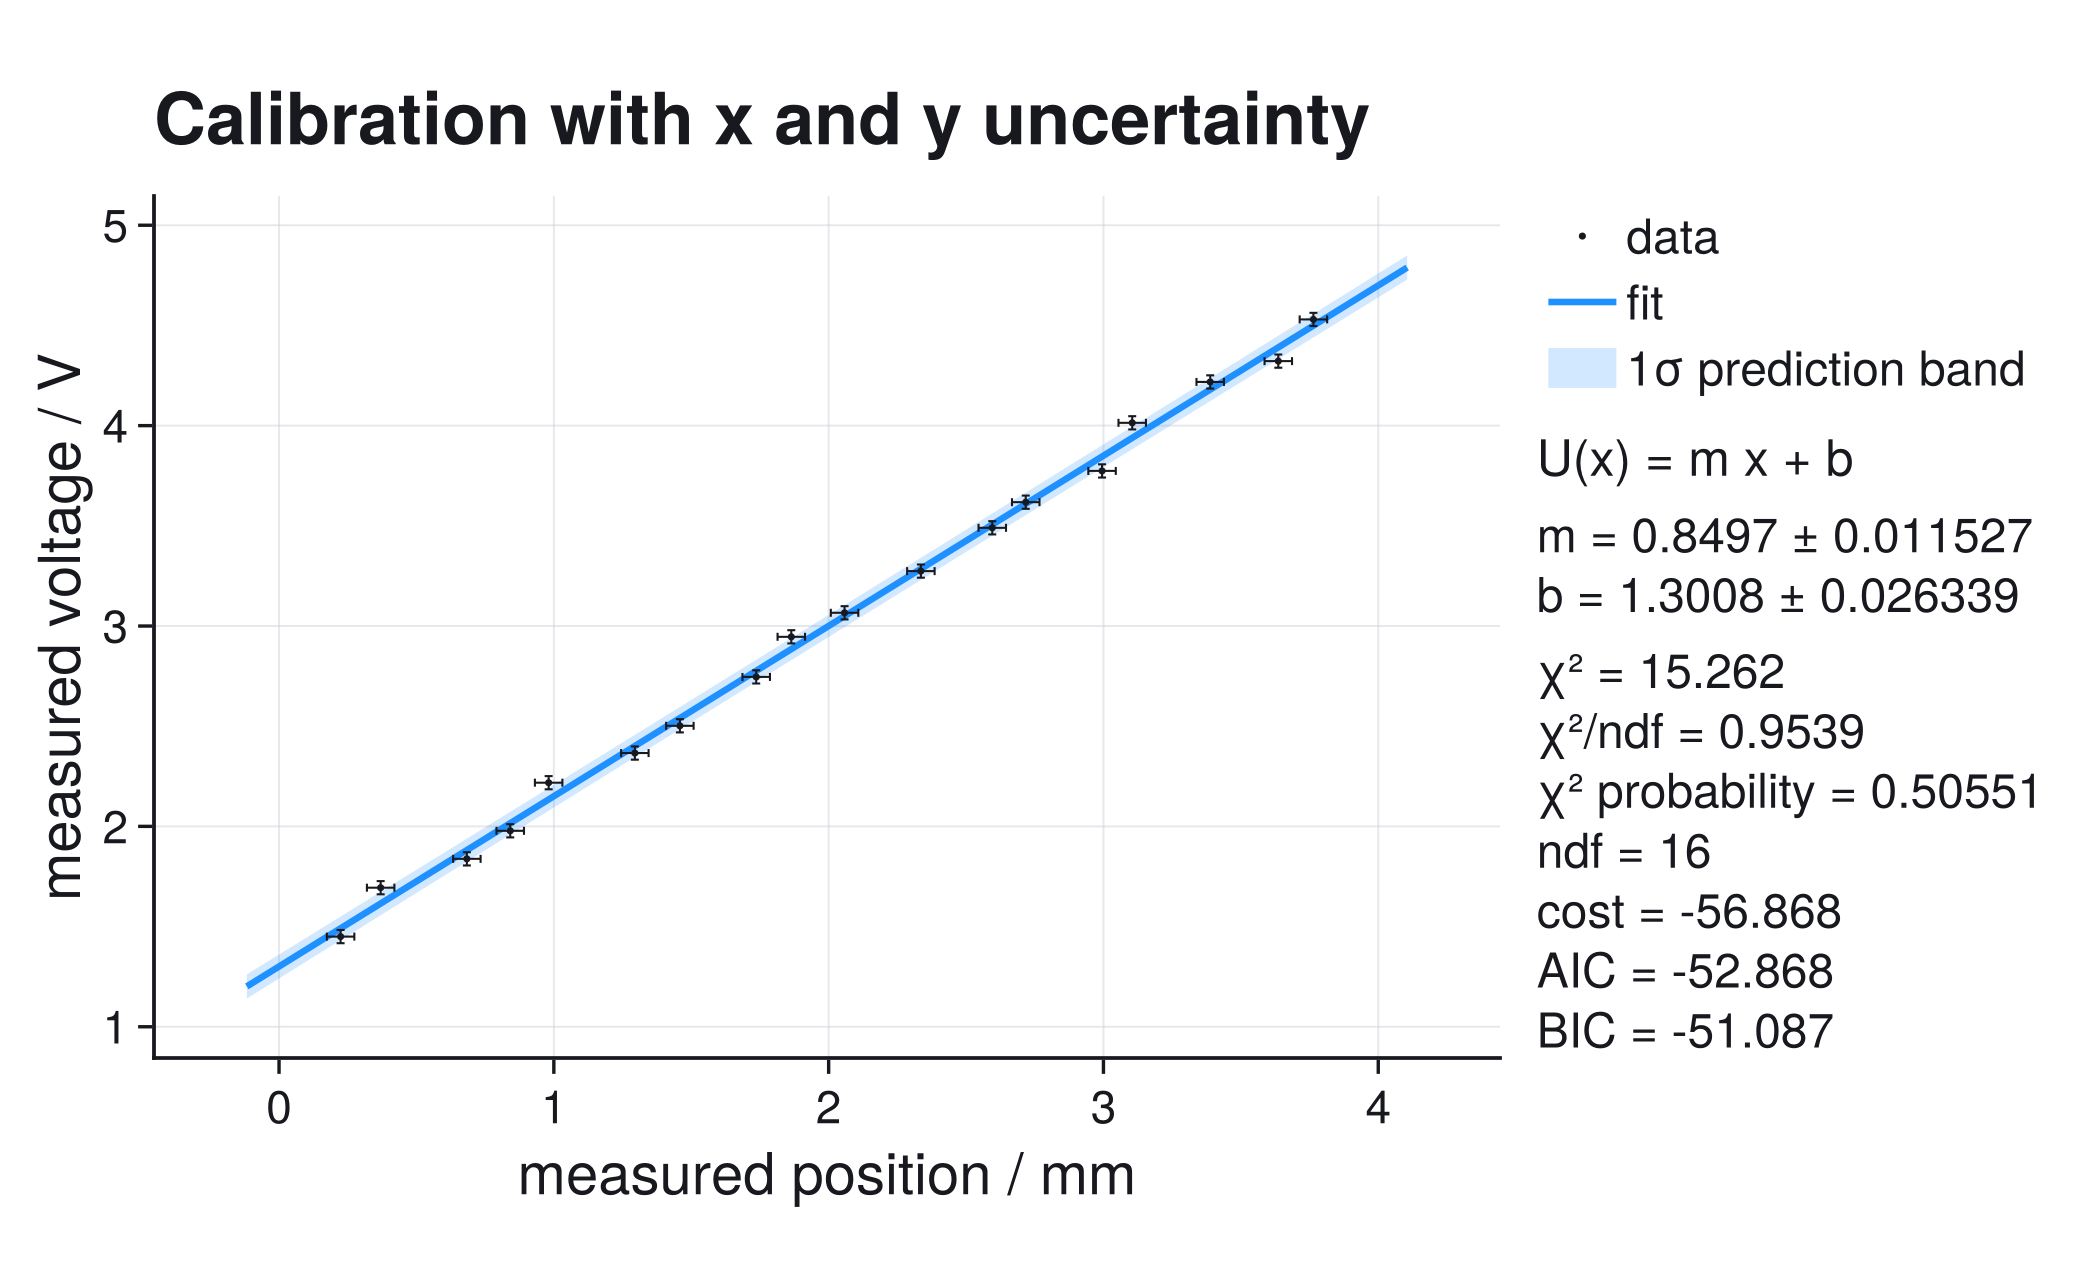
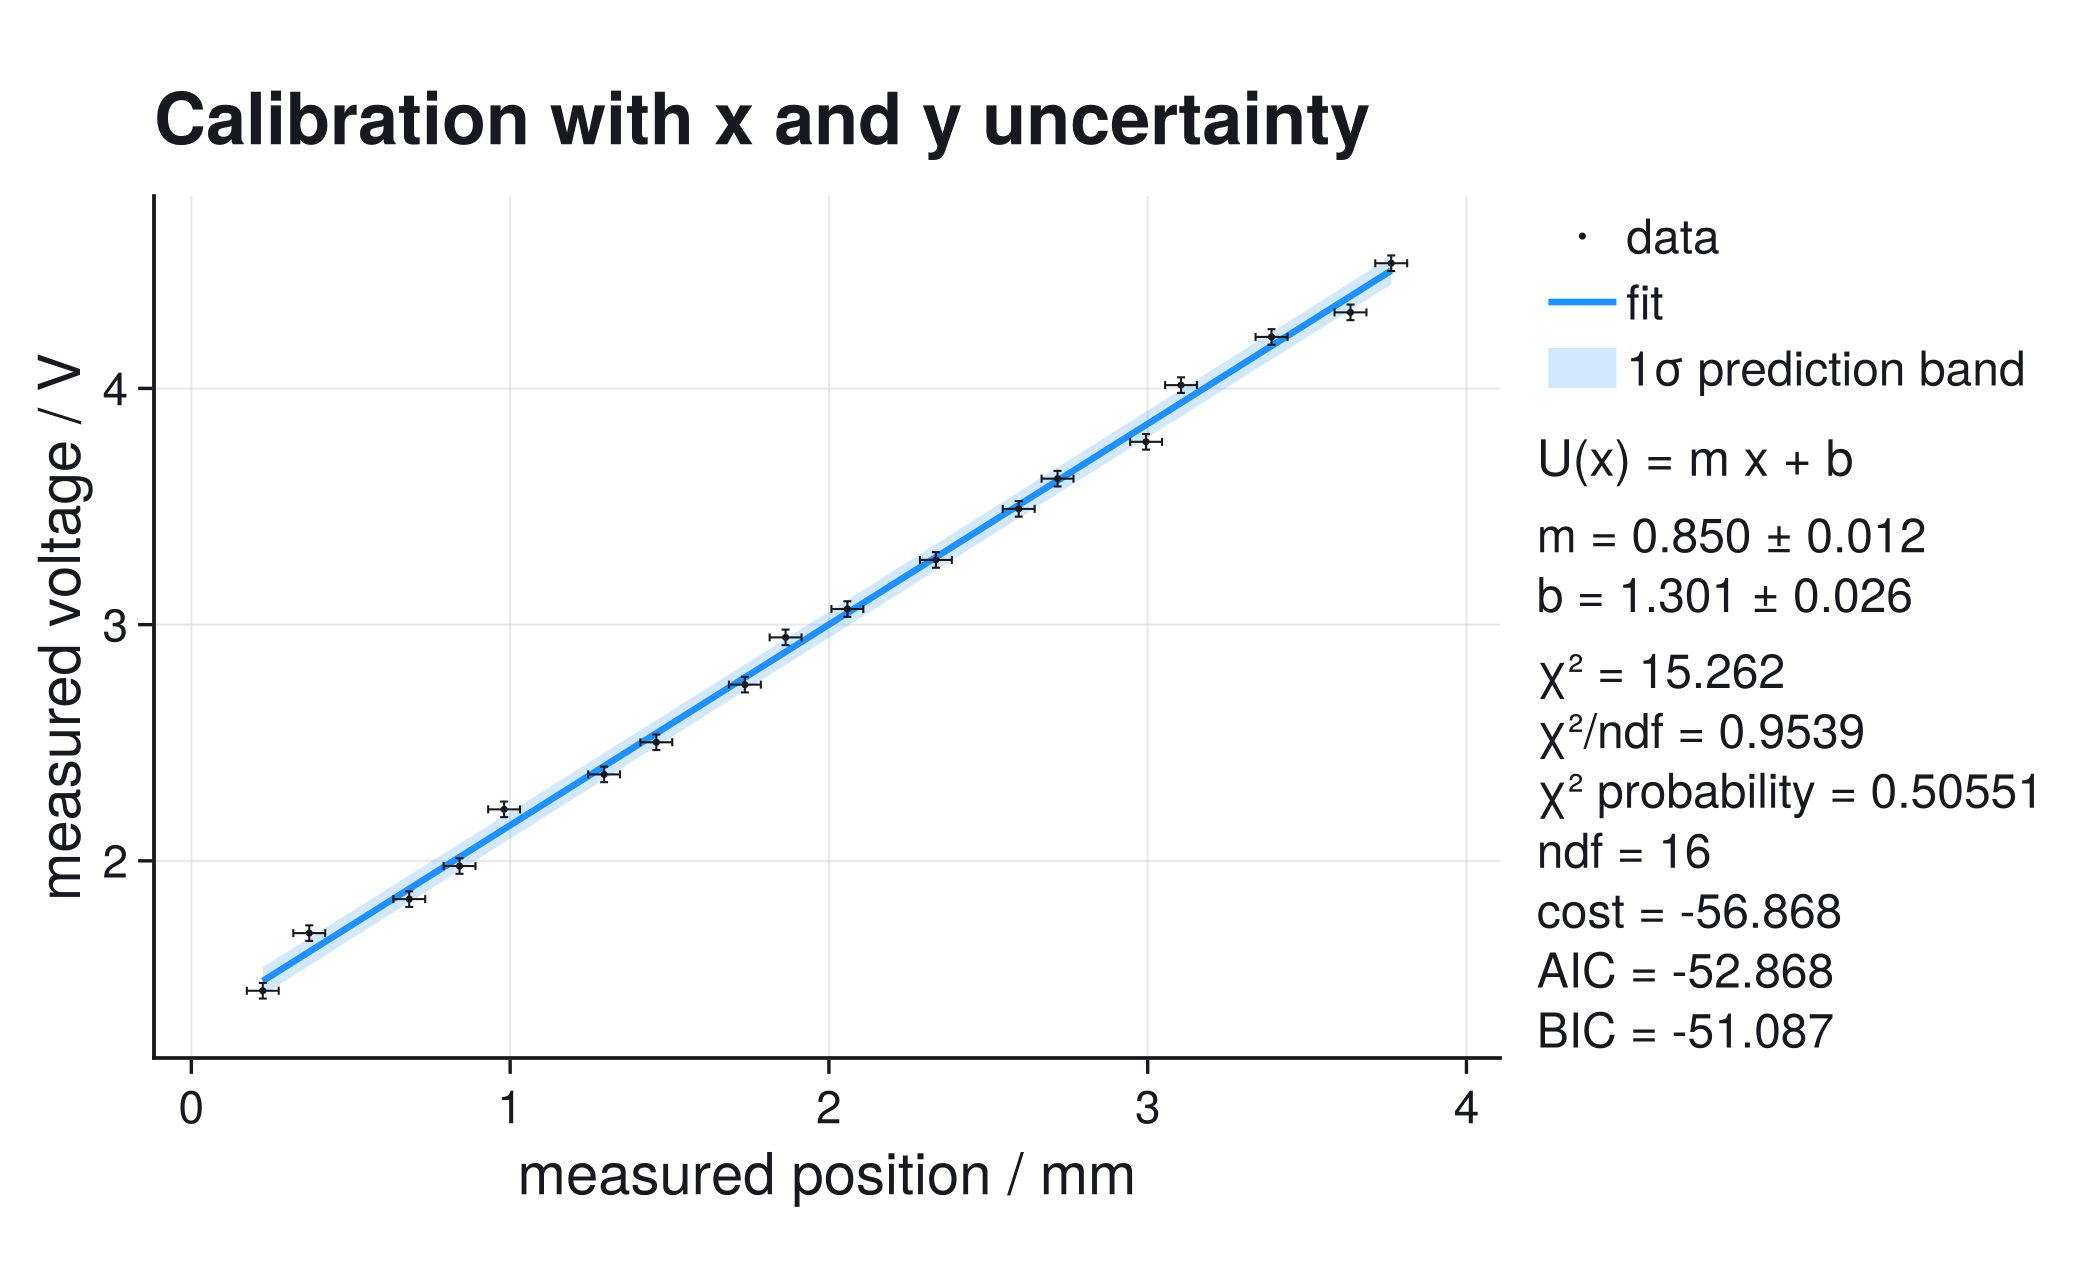
Regenerate documented outputs for the new display defaults
All ten documented output blocks, the result-panel gallery assets, and
the prose that quotes fitted numbers now show uncertainty-driven
rounding; the docs environment resolves the new Printf dependency.

diff --git a/docs/src/gallery/resonance_decay.md b/docs/src/gallery/resonance_decay.md
@@ -197,10 +197,10 @@ iterations = 43
 message = Success
 
 Parameters:
-  A_ref = 1.60616 +/- 0.000897684
-  omega_ref = 3.2601 +/- 3.271e-5
-  phi_ref = -0.763197 +/- 0.000567184
-  lambda = 0.00348457 +/- 3.21332e-5
+  A_ref = 1.60616 +/- 0.00090
+  omega_ref = 3.260100 +/- 0.000033
+  phi_ref = -0.76320 +/- 0.00057
+  lambda = 0.003485 +/- 0.000032
 
 Statistics:
   cost = gaussian_likelihood
@@ -313,17 +313,18 @@ println(diagnostic_dashboard_text(drift_result))
 ```@raw html
 <div class="scientificfitting-cell-output">
 <div class="scientificfitting-cell-output-label">Output from this code</div>
-<pre>Fit report
+<pre>
+Fit report
 backend = optimization
 converged = true
-iterations = 41
+iterations = 33
 message = Success
 
 Parameters:
-  A_ref = 1.60608 +/- 0.000897621
-  omega_ref = 3.26016 +/- 3.28557e-5
-  phi_ref = -0.775608 +/- 0.000846739
-  lambda = 0.00348365 +/- 3.21247e-5
+  A_ref = 1.60608 +/- 0.00090
+  omega_ref = 3.260157 +/- 0.000033
+  phi_ref = -0.77561 +/- 0.00085
+  lambda = 0.003484 +/- 0.000032
   beta = 8.32878e-5 +/- 4.21994e-6
 
 Statistics:
@@ -342,7 +343,8 @@ critical = 0, warning = 1, info = 0
 1 warning(s). Inspect before trusting uncertainties or conclusions.
 
 Next actions:
-  1. The uncertainties may be too large, correlations may be ignored, or the data may not be independent.</pre>
+  1. The uncertainties may be too large, correlations may be ignored, or the data may not be independent.
+</pre>
 </div>
 ```
 

diff --git a/docs/src/gallery/poisson_histogram.md b/docs/src/gallery/poisson_histogram.md
@@ -174,7 +174,8 @@ println(diagnostic_dashboard_text(decay_result))
 ```@raw html
 <div class="scientificfitting-cell-output">
 <div class="scientificfitting-cell-output-label">Output from this code</div>
-<pre>half-life = 4.234 +/- 0.863 min
+<pre>
+half-life = 4.234 +/- 0.863 min
 background = 0.792 +/- 2.189 counts per 10 s
 deviance/ndf = 1.015
 P(D) = 0.436
@@ -182,7 +183,8 @@ Fit diagnostic dashboard
 status = ok - no immediate issue
 critical = 0, warning = 0, info = 0
 No major diagnostic issues detected by the current checks.
-No next action required by the current diagnostic checks.</pre>
+No next action required by the current diagnostic checks.
+</pre>
 </div>
 ```
 
@@ -322,7 +324,8 @@ println(diagnostic_dashboard_text(spectrum_result))
 ```@raw html
 <div class="scientificfitting-cell-output">
 <div class="scientificfitting-cell-output-label">Output from this code</div>
-<pre>peak yield = 213.9 +/- 17.3 events
+<pre>
+peak yield = 213.9 +/- 17.3 events
 centroid = 3.505 +/- 0.103 V
 width = 1.270 +/- 0.100 V
 background density = 2.572 +/- 1.035 events/V
@@ -332,7 +335,8 @@ Fit diagnostic dashboard
 status = ok - no immediate issue
 critical = 0, warning = 0, info = 0
 No major diagnostic issues detected by the current checks.
-No next action required by the current diagnostic checks.</pre>
+No next action required by the current diagnostic checks.
+</pre>
 </div>
 ```
 

diff --git a/docs/src/gallery/xy_uncertainties.md b/docs/src/gallery/xy_uncertainties.md
@@ -116,15 +116,16 @@ println(diagnostic_dashboard_text(result))
 ```@raw html
 <div class="scientificfitting-cell-output">
 <div class="scientificfitting-cell-output-label">Output from this code</div>
-<pre>Fit report
+<pre>
+Fit report
 backend = optimization
 converged = true
 iterations = 7
 message = Success
 
 Parameters:
-  m = 0.849698 +/- 0.0115274
-  b = 1.30078 +/- 0.0263385
+  m = 0.850 +/- 0.012
+  b = 1.301 +/- 0.026
 
 Statistics:
   cost = gaussian_likelihood
@@ -140,7 +141,8 @@ Fit diagnostic dashboard
 status = ok - no immediate issue
 critical = 0, warning = 0, info = 0
 No major diagnostic issues detected by the current checks.
-No next action required by the current diagnostic checks.</pre>
+No next action required by the current diagnostic checks.
+</pre>
 </div>
 ```
 
@@ -186,9 +188,9 @@ later by drawing larger horizontal error bars on a finished plot.
 For the dataset shown here, the fitted sensitivity and offset are
 
 ```math
-m = (0.8497 \pm 0.0115)\,\mathrm{V\,mm^{-1}},
+m = (0.850 \pm 0.012)\,\mathrm{V\,mm^{-1}},
 \qquad
-b = (1.3008 \pm 0.0263)\,\mathrm{V}.
+b = (1.301 \pm 0.026)\,\mathrm{V}.
 ```
 
 Under the stated independent Gaussian resolution model,

diff --git a/docs/src/api_plotting.md b/docs/src/api_plotting.md
@@ -95,7 +95,7 @@ maintained names. Unknown styles and appearances raise `ArgumentError`.
 | `xunit`, `yunit` | `nothing` | Appended as `label / unit` (quantity-calculus notation: a tick value 2 on an axis labeled `t / s` means t = 2 s); units are never inferred. |
 | `latex_labels` | `false` | Convert suitable labels to Makie `LaTeXString` content. Pass explicit `L"..."` strings for mathematical notation. |
 | `xgrid` | `nothing` | Explicit finite model-sampling coordinates; authoritative when supplied. |
-| `fit_range` | `:axis` | `:axis` samples the data x range extended by `limit_padding`; `:data` samples from the smallest to the largest measured x. |
+| `fit_range` | `:data` | `:data` samples from the smallest to the largest measured x, so the drawn curve never extrapolates silently; `:axis` extends the sampling over the data x range padded by `limit_padding`. |
 | `auto_limits` | `true` | Include data, errors, model, and displayed band in both axis limits. |
 | `limit_padding` | `0.08` | Finite non-negative fractional padding around automatic content limits. |
 | `plot_aspect` | `nothing` | Optional numeric `AxisAspect`; leave unset unless geometry carries meaning. |

diff --git a/docs/src/gallery/constraints_profiles.md b/docs/src/gallery/constraints_profiles.md
@@ -224,7 +224,8 @@ println(diagnostic_dashboard_text(result))
 ```@raw html
 <div class="scientificfitting-cell-output">
 <div class="scientificfitting-cell-output-label">Output from this code</div>
-<pre>amplitude = 4.750 -0.629 +1.018 V
+<pre>
+amplitude = 4.750 -0.629 +1.018 V
 profile interval = [4.121, 5.768] V
 corr(A, tau) = 0.9928
 Fit diagnostic dashboard
@@ -234,7 +235,8 @@ critical = 0, warning = 2, info = 0
 
 Next actions:
   1. Use profile or contour intervals before treating symmetric covariance errors as final uncertainties.
-  2. Inspect a contour/profile plot. Re-center or rescale the independent variable, reparameterize the model, or add data that breaks the degeneracy.</pre>
+  2. Inspect a contour/profile plot. Re-center or rescale the independent variable, reparameterize the model, or add data that breaks the degeneracy.
+</pre>
 </div>
 ```
 

diff --git a/docs/src/gallery/multi_dataset.md b/docs/src/gallery/multi_dataset.md
@@ -210,10 +210,10 @@ iterations = 4
 message = Success
 
 Parameters:
-  shared gain = 1.84775 +/- 0.0067733
-  offset A = 0.61983 +/- 0.0401546
-  offset B = -0.566252 +/- 0.0448925
-  offset C = 0.340211 +/- 0.0447551
+  shared gain = 1.8478 +/- 0.0068
+  offset A = 0.620 +/- 0.040
+  offset B = -0.566 +/- 0.045
+  offset C = 0.340 +/- 0.045
 
 Statistics:
   cost = multi_chi2
@@ -234,11 +234,11 @@ iterations = 5
 message = Success
 
 Parameters:
-  gain A/B = 1.8232 +/- 0.00807553
-  offset A = 0.707442 +/- 0.0431124
-  offset B = -0.46491 +/- 0.0484239
-  gain C = 1.906 +/- 0.0124389
-  offset C = 0.139047 +/- 0.0574583
+  gain A/B = 1.8232 +/- 0.0081
+  offset A = 0.707 +/- 0.043
+  offset B = -0.465 +/- 0.048
+  gain C = 1.906 +/- 0.012
+  offset C = 0.139 +/- 0.057
 
 Statistics:
   cost = multi_chi2

diff --git a/docs/src/plotting_design.md b/docs/src/plotting_design.md
@@ -226,12 +226,14 @@ use `band=:confidence`.
 
 ## Model Range And Automatic Limits
 
-`fit_range=:axis` (the default) draws the fitted model to the padded x
+`fit_range=:data` (the default) stops the drawn model at the first and last
+measured x: extrapolation beyond the data is a statement the analyst makes
+explicitly, not a display default. `fit_range=:axis` draws to the padded x
 limits, keeping interpolation and modest extrapolation visually continuous
 with the axis:
 
 ```julia
-plot_fit(result; fit_range=:data)             # first to last measured x
+plot_fit(result; fit_range=:axis)             # extend to the padded axis range
 plot_fit(result; xgrid=collect(0.0:0.01:8.0)) # exact requested domain
 ```
 

diff --git a/docs/src/quickstart.md b/docs/src/quickstart.md
@@ -120,8 +120,8 @@ iterations = unavailable
 message = Converged with LsqFit
 
 Parameters:
-  m = 1.84747 +/- 0.0169514
-  b = 0.736949 +/- 0.0774882
+  m = 1.847 +/- 0.017
+  b = 0.737 +/- 0.077
 
 Statistics:
   cost = chi2
@@ -205,9 +205,9 @@ If you want only the uncertainty of the fitted mean curve, use
 The fitted calibration coefficients are
 
 ```math
-m = (1.8475 \pm 0.0170)\,\mathrm{V\,mm^{-1}},
+m = (1.847 \pm 0.017)\,\mathrm{V\,mm^{-1}},
 \qquad
-b = (0.7369 \pm 0.0775)\,\mathrm{V}.
+b = (0.737 \pm 0.077)\,\mathrm{V}.
 ```
 
 These are local one-standard-deviation errors from the parameter covariance:

diff --git a/docs/src/gallery/full_covariance.md b/docs/src/gallery/full_covariance.md
@@ -207,9 +207,9 @@ iterations = unavailable
 message = Converged with LsqFit
 
 Parameters:
-  A = 1.93938 +/- 0.0589119
-  lambda = 1.03103 +/- 0.0791039
-  C = 0.209571 +/- 0.0562024
+  A = 1.939 +/- 0.059
+  lambda = 1.031 +/- 0.079
+  C = 0.210 +/- 0.056
 
 Statistics:
   cost = chi2
